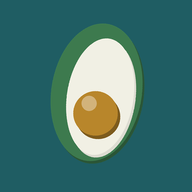
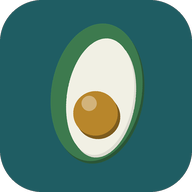
Avrundede app-ikoner: egen rundet variant + maskerbart Android-ikon

diff --git a/sw.js b/sw.js
@@ -1,13 +1,15 @@
 // Ketolisten service worker.
 // Bump CACHE_NAME whenever index.html (or anything in APP_SHELL) changes,
 // so returning visitors pick up the new version instead of a stale cache.
-var CACHE_NAME = "ketolisten-v2";
+var CACHE_NAME = "ketolisten-v3";
 var APP_SHELL = [
   "./",
   "./index.html",
   "./manifest.json",
   "./icons/icon-192.png",
   "./icons/icon-512.png",
+  "./icons/icon-maskable-192.png",
+  "./icons/icon-maskable-512.png",
   "./icons/apple-touch-icon.png"
 ];
 
